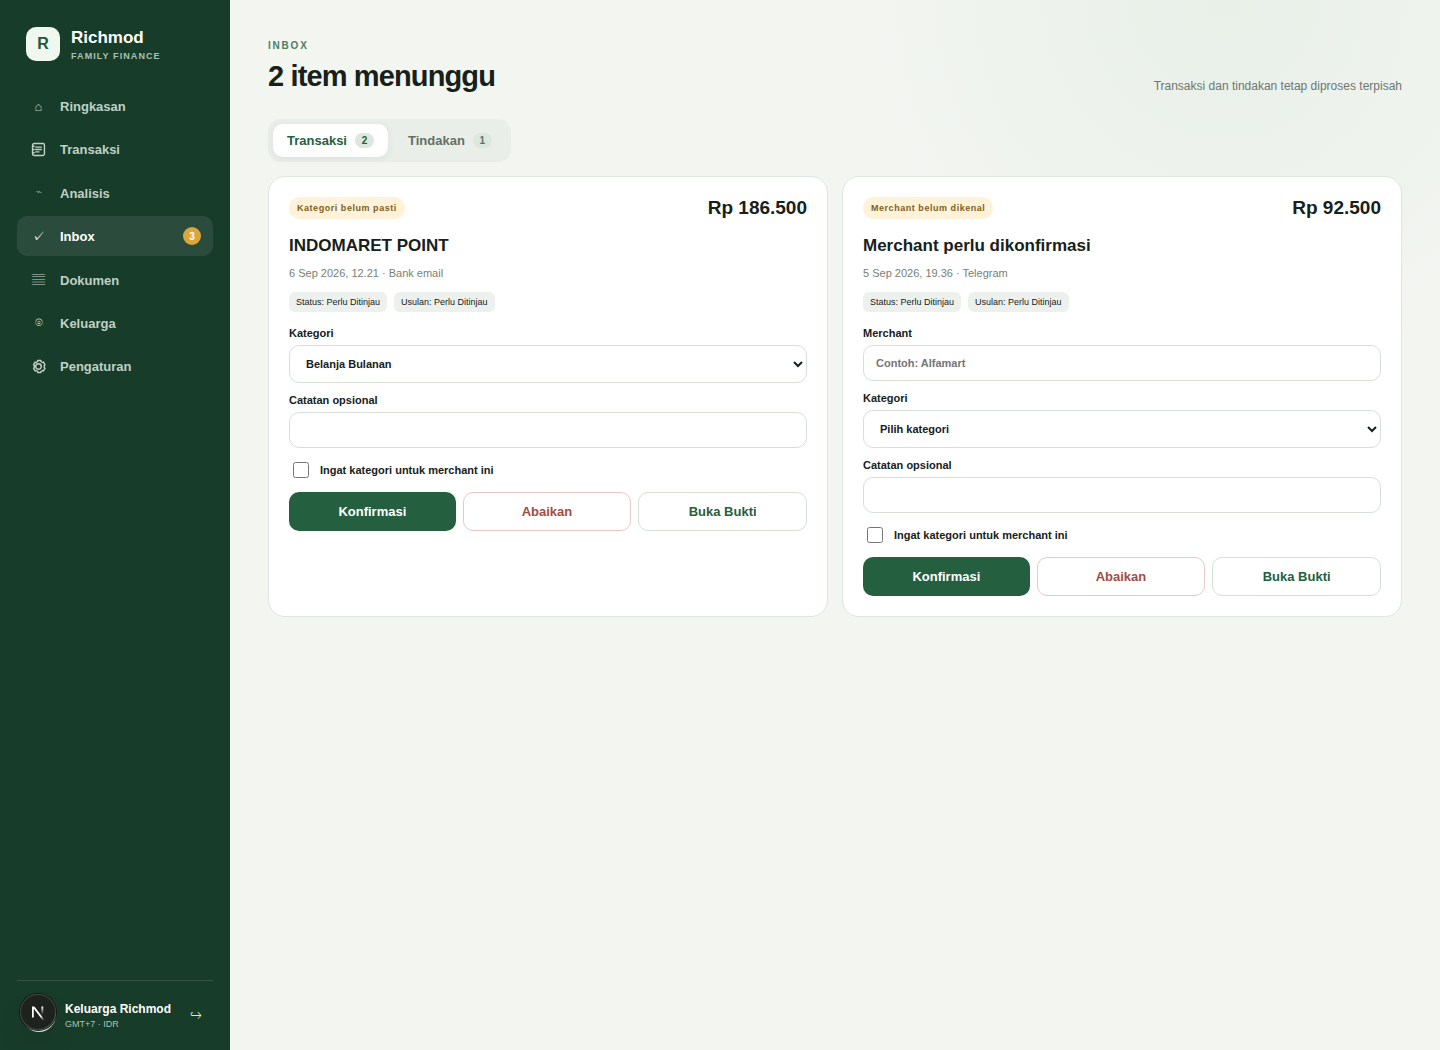
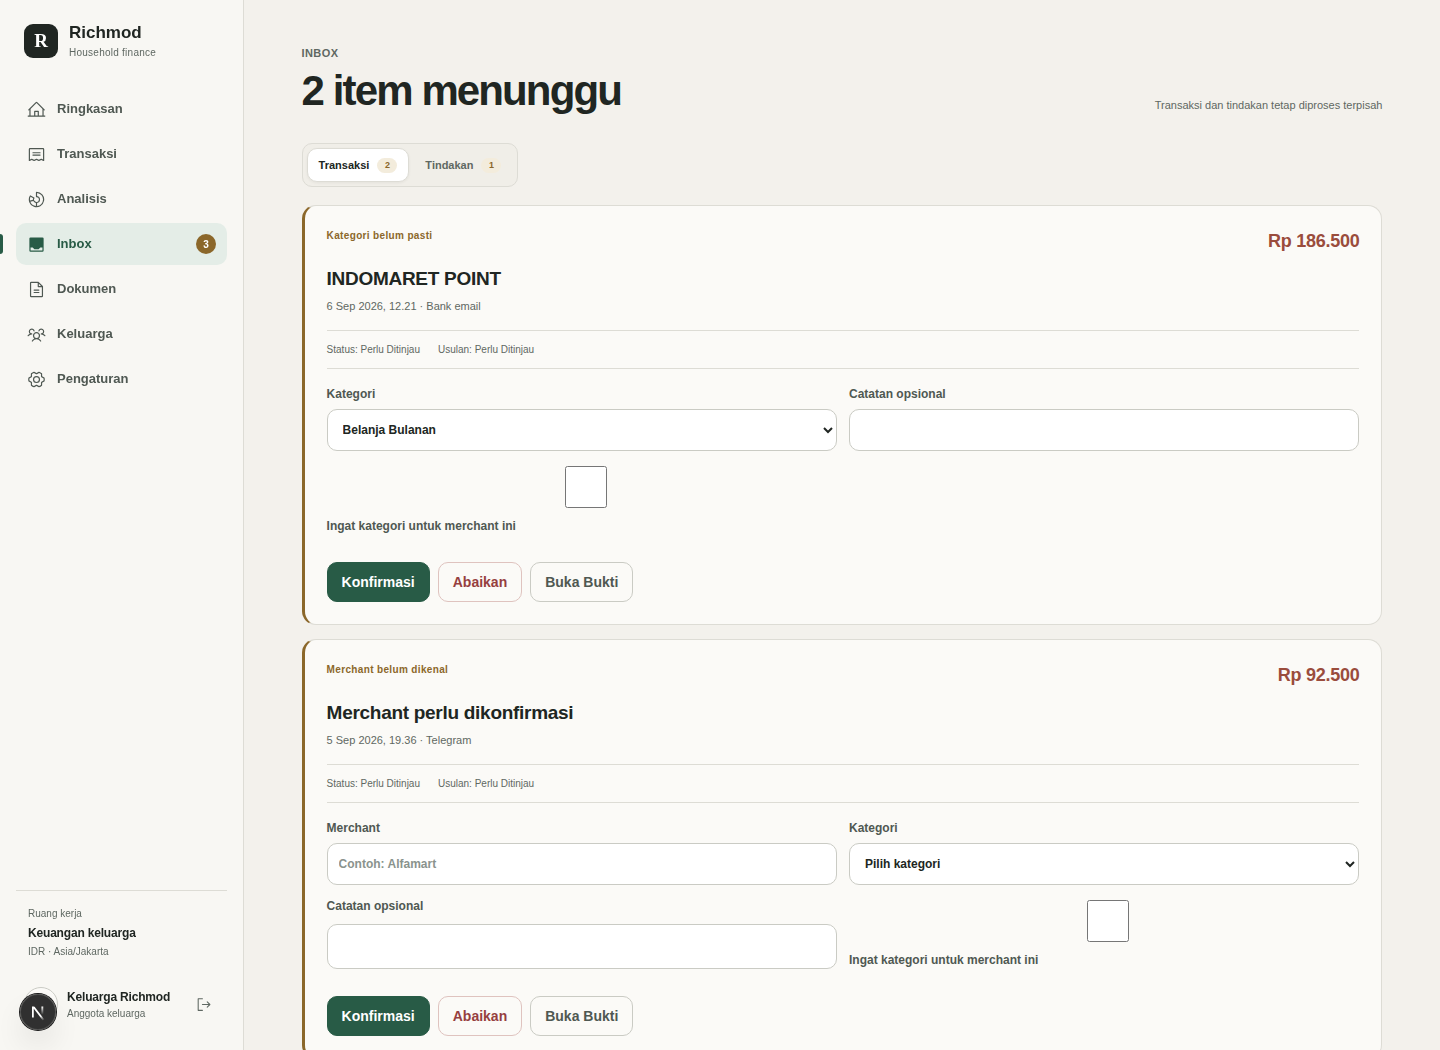
docs: refresh README product screenshots

diff --git a/docs/runbooks/readme-showcase.md b/docs/runbooks/readme-showcase.md
@@ -2,8 +2,10 @@
 
 ## Purpose
 
-`README.md` includes three product screenshots:
+`README.md` includes five product screenshots:
 
+- `docs/assets/landing.png`
+- `docs/assets/login.png`
 - `docs/assets/dashboard.png`
 - `docs/assets/review-inbox.png`
 - `docs/assets/analytics.png`
@@ -56,7 +58,7 @@ Wait until this succeeds:
 curl -fsS http://localhost:3002 >/dev/null
 ```
 
-Capture all three images. `--network host` is intentional for a Linux Docker
+Capture all five images. `--network host` is intentional for a Linux Docker
 host: it lets the disposable browser reach the loopback-only web server.
 
 ```bash
@@ -68,9 +70,10 @@ docker run --rm --network host \
   npm run capture:readme
 ```
 
-The script uses a 1440×1050 desktop viewport, waits for the app shell and web
-fonts, disables animation, then overwrites only the three PNG files above.
-It captures the dashboard, transaction Review Inbox view, and analytics page.
+The script uses a 1440×1050 desktop viewport, waits for the relevant public or
+authenticated shell and web fonts, disables animation, then overwrites only the
+five PNG files above. It captures the public landing and login experiences plus
+the dashboard, transaction Review Inbox view, and analytics page.
 
 For an already-running local server on port `3000`, the shorter command is:
 
@@ -89,7 +92,9 @@ Inspect the generated images. Confirm that each is 1440×1050, legible, current
 with the UI, and contains synthetic data only.
 
 ```bash
-file docs/assets/dashboard.png \
+file docs/assets/landing.png \
+  docs/assets/login.png \
+  docs/assets/dashboard.png \
   docs/assets/review-inbox.png \
   docs/assets/analytics.png
 ```

diff --git a/README.md b/README.md
@@ -26,6 +26,10 @@ Forward financial notifications, send a message or image through Telegram, or up
 
 ## A quick look
 
+| Public landing | Login |
+| --- | --- |
+| ![Richmod public landing page](docs/assets/landing.png) | ![Richmod login experience](docs/assets/login.png) |
+
 | Dashboard | Review Inbox |
 | --- | --- |
 | ![Richmod household dashboard](docs/assets/dashboard.png) | ![Richmod Review Inbox](docs/assets/review-inbox.png) |
